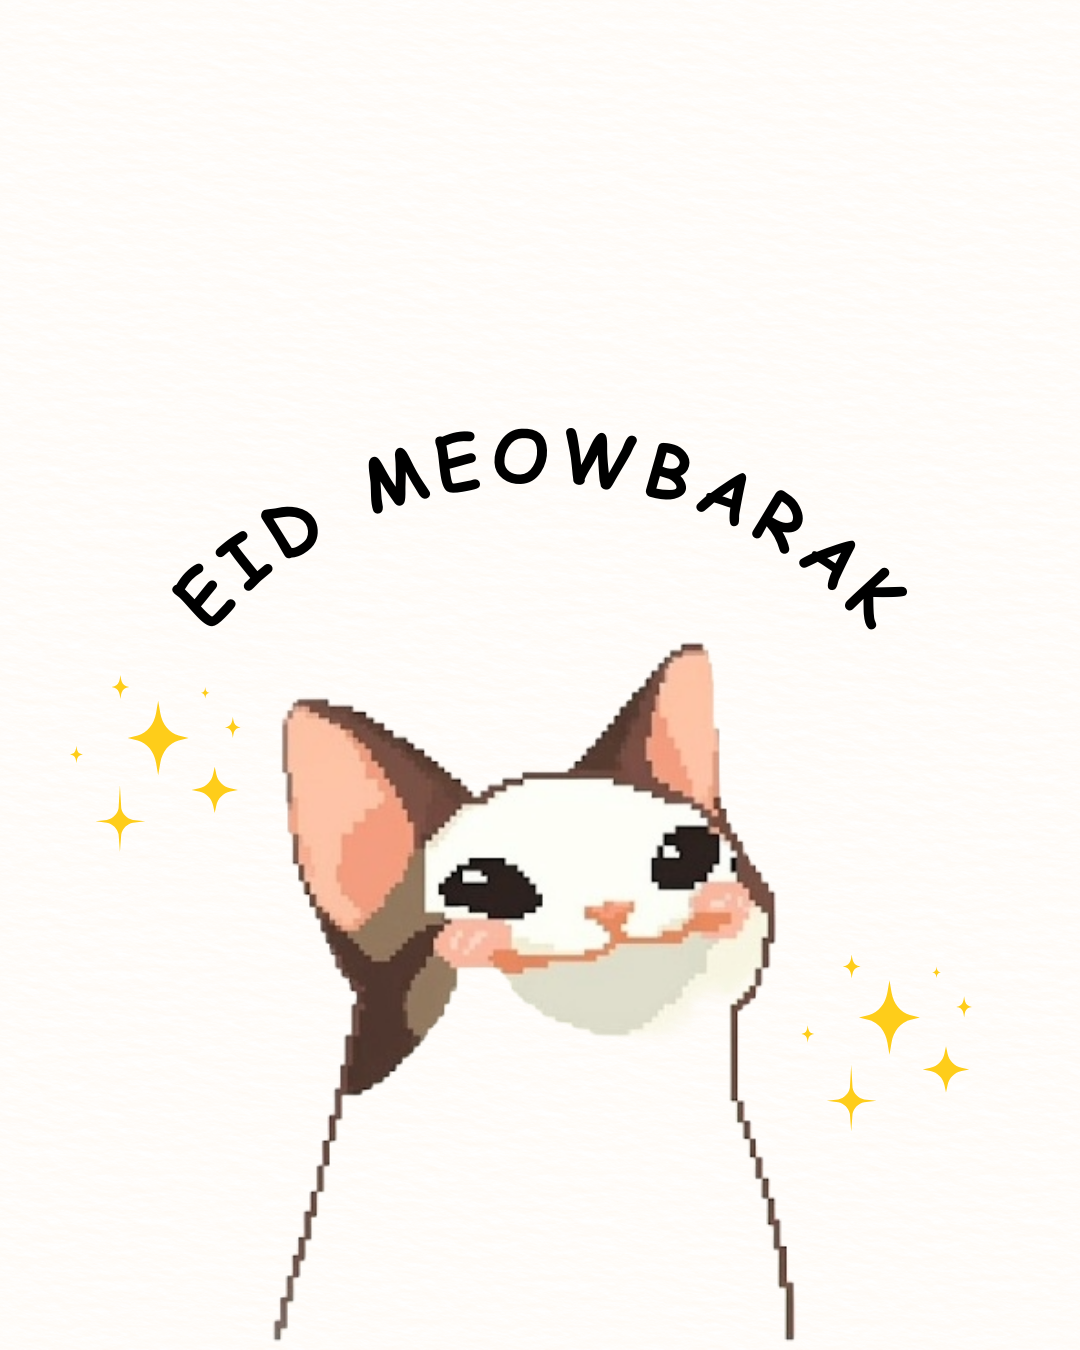
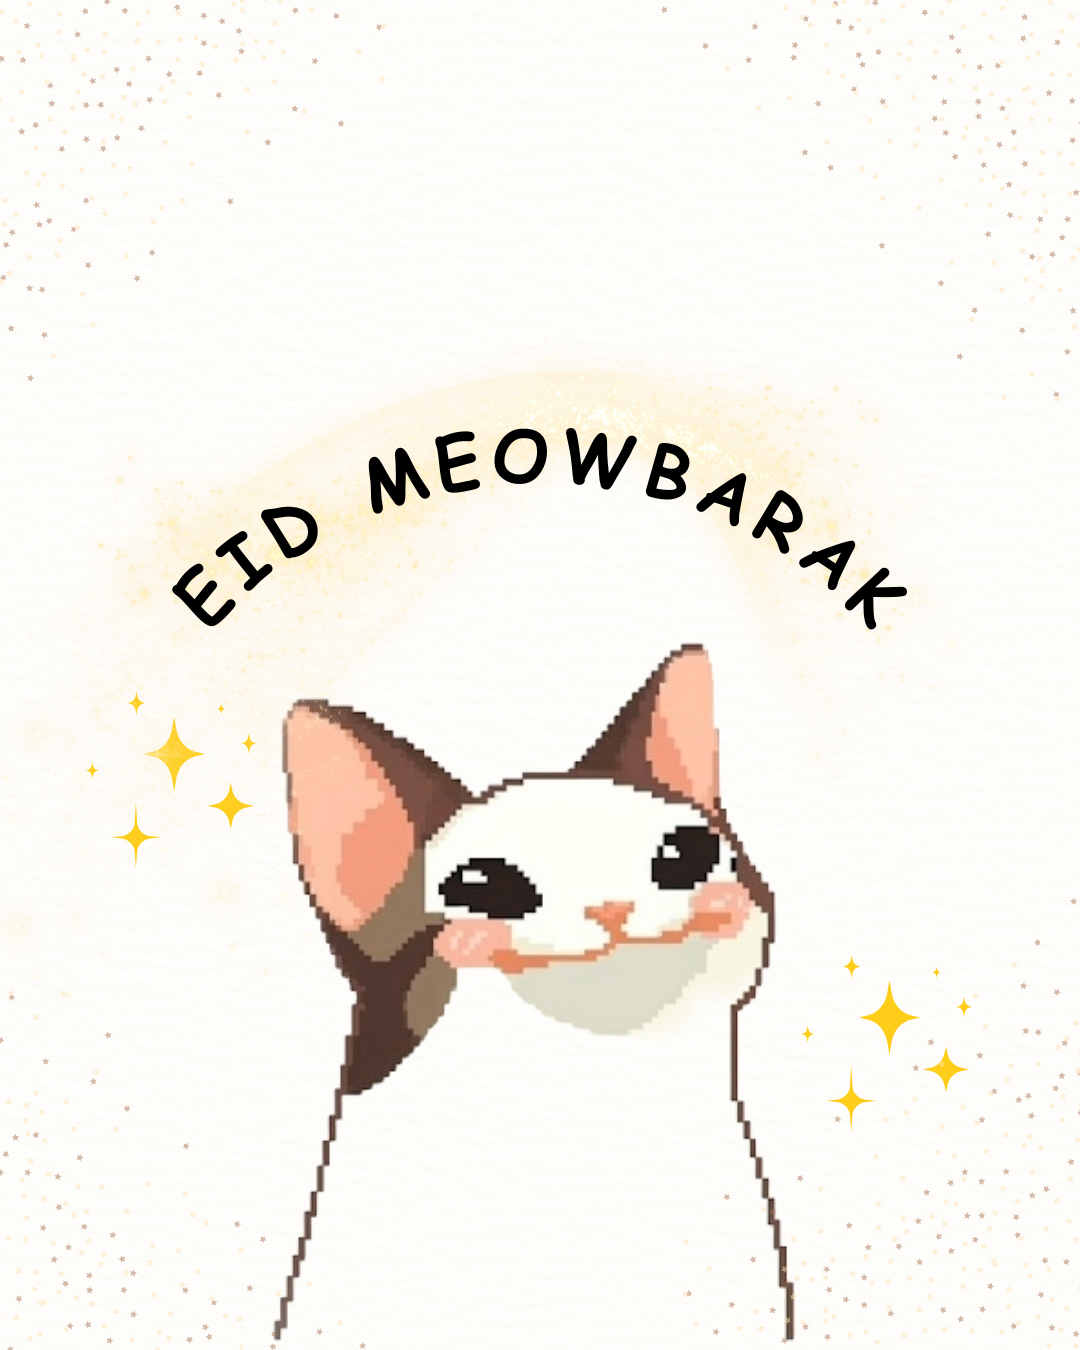
added cover15, fix bugs

diff --git a/eid-cards/app/page.tsx b/eid-cards/app/page.tsx
@@ -15,14 +15,15 @@ const supabase = createClient(
 );
 
 const PRESET_WISHES = [
-  { id: 1, text: "May your heart be as light as the moon and your day as sweet as the dates. Eid Mubarak!" },
-  { id: 2, text: "Wishing you an Eid filled with the smell of jasmine and old memories. Have a blessed day!" },
-  { id: 3, text: "Eid Mubarak! Now stop reading this and go bring me my Eidi. 😂" },
+  { id: 1, text: "May this special day bring peace, happiness, and prosperity to you and your family." },
+  { id: 2, text: "May Allah accept your prayers, reward your patience and bless you beyond what you asked for." },
+  { id: 3, text: "May Allah accept all your duas and bless you and your family with immense happiness." },
   { id: 4, text: "May this Eid bring you closer to the ones who make your soul smile. Sending love!" },
-  { id: 5, text: "A nostalgic wish for a modern day. May your Eid be as beautiful as a childhood memory." },
+  { id: 5, text: "May the colors and joy of Eid brighten your day and fill your life with happiness." },
   { id: 6, text: "ڈبے میں ڈبہ، ڈبے میں انجکشن، عید والے دن دیکھنا میری دوست کے ایکشن" },
   { id: 7, text: "آم کے رس کو جوس کہتے ہیں، جو عید کارڈ نہ بھیجے اسے کنجوس کہتے ہیں" },
-  { id: 8, text: "میرے ہاتھ میں پھول ہے کوئی اسلحہ تو نہیں، ایڈوانس عید مبارک بول دوں کوئی مسئلہ تو نہیں" }
+  { id: 8, text: "میرے ہاتھ میں پھول ہے کوئی اسلحہ تو نہیں، ایڈوانس عید مبارک بول دوں کوئی مسئلہ تو نہیں" },
+
 ];
 
 const COVERS = [
@@ -40,6 +41,7 @@ const COVERS = [
   { id: 12, name: "Floral Pastels & Lanterns", image: "/cover12.jpeg" },
   { id: 13, name: "Monochrome Palms & Lanterns", image: "/cover13.jpeg" },
   { id: 14, name: "Midnight Botanical", image: "/cover14.png" },
+  { id: 15, name: "Dreamy Marble Mosque", image: "/cover15.jpeg" },
 ];
 
 export default function HomePage() {
@@ -57,18 +59,27 @@ export default function HomePage() {
   const [loading, setLoading] = useState(false);
   const [copied, setCopied] = useState(false);
 
-  const nextTheme = () => {
-    const i = (themeIndex + 1) % COVERS.length;
-    setThemeIndex(i);
-    setFormData({ ...formData, themeId: COVERS[i].id });
-  };
-  
-  const prevTheme = () => {
-    const i = (themeIndex - 1 + COVERS.length) % COVERS.length;
-    setThemeIndex(i);
-    setFormData({ ...formData, themeId: COVERS[i].id });
-  };
 
+useEffect(() => {
+  setFormData(prev => ({ ...prev, themeId: COVERS[themeIndex].id }));
+}, [themeIndex]);
+
+const nextTheme = () => {
+  setThemeIndex((prev) => (prev + 1) % COVERS.length);
+};
+  // const nextTheme = () => {
+  //   const i = (themeIndex + 1) % COVERS.length;
+  //   setThemeIndex(i);
+  //   setFormData({ ...formData, themeId: COVERS[i].id });
+  // };
+const prevTheme = () => {
+  setThemeIndex((prev) => (prev - 1 + COVERS.length) % COVERS.length);
+};
+  // const prevTheme = () => {
+  //   const i = (themeIndex - 1 + COVERS.length) % COVERS.length;
+  //   setThemeIndex(i);
+  //   setFormData({ ...formData, themeId: COVERS[i].id });
+  // };
   const nextWish = () => {
     const i = (wishIndex + 1) % PRESET_WISHES.length;
     setWishIndex(i);
@@ -142,6 +153,7 @@ export default function HomePage() {
                   <div className="flex-1">
                     <label className="text-[9px] uppercase tracking-widest text-gray-400 ml-2 mb-1 block">From</label>
                     <input 
+                   value={formData.sender || ''}
                       placeholder="Your Name" 
                       className="w-full p-4 bg-gray-50 border border-gray-200 rounded-2xl outline-none focus:ring-1 focus:ring-amber-200 transition text-sm text-slate-900 placeholder:text-gray-400" 
                       onChange={(e) => setFormData({...formData, sender: e.target.value})} 
@@ -150,6 +162,7 @@ export default function HomePage() {
                   <div className="flex-1">
                     <label className="text-[9px] uppercase tracking-widest text-gray-400 ml-2 mb-1 block">To</label>
                     <input 
+                    value={formData.receiver || ''}
                       placeholder="Friend's Name" 
                       className="w-full p-4 bg-gray-50 border border-gray-200 rounded-2xl outline-none focus:ring-1 focus:ring-amber-200 transition text-sm text-slate-900 placeholder:text-gray-400" 
                       onChange={(e) => setFormData({...formData, receiver: e.target.value})} 
